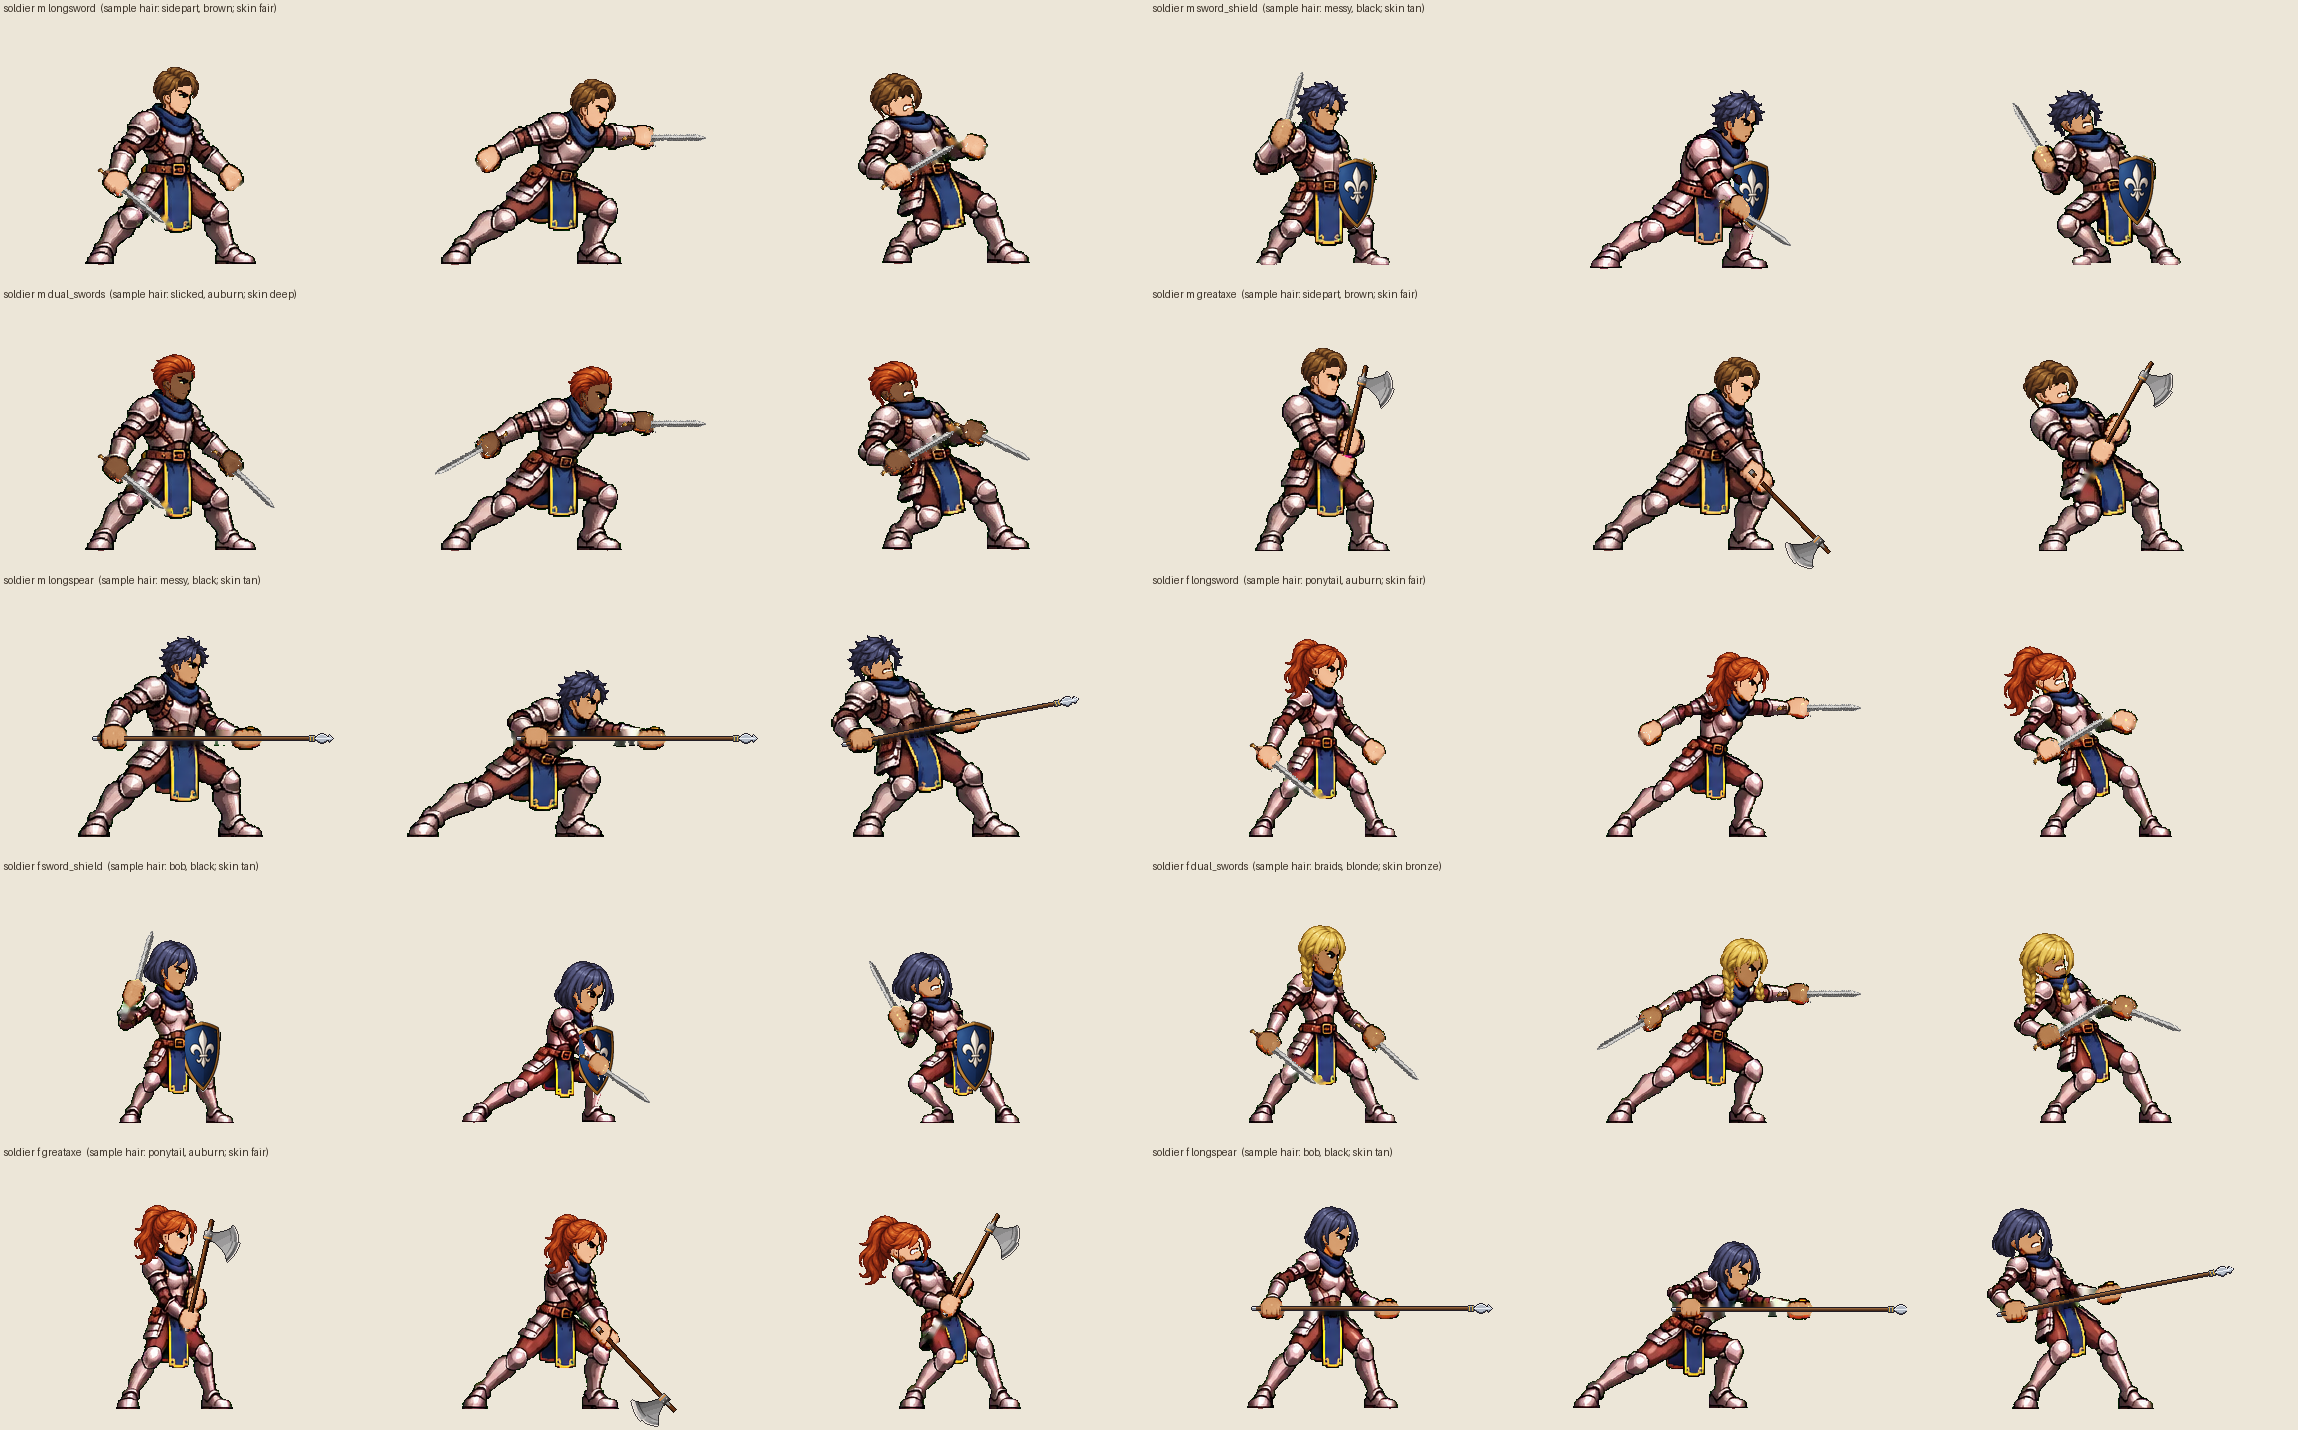
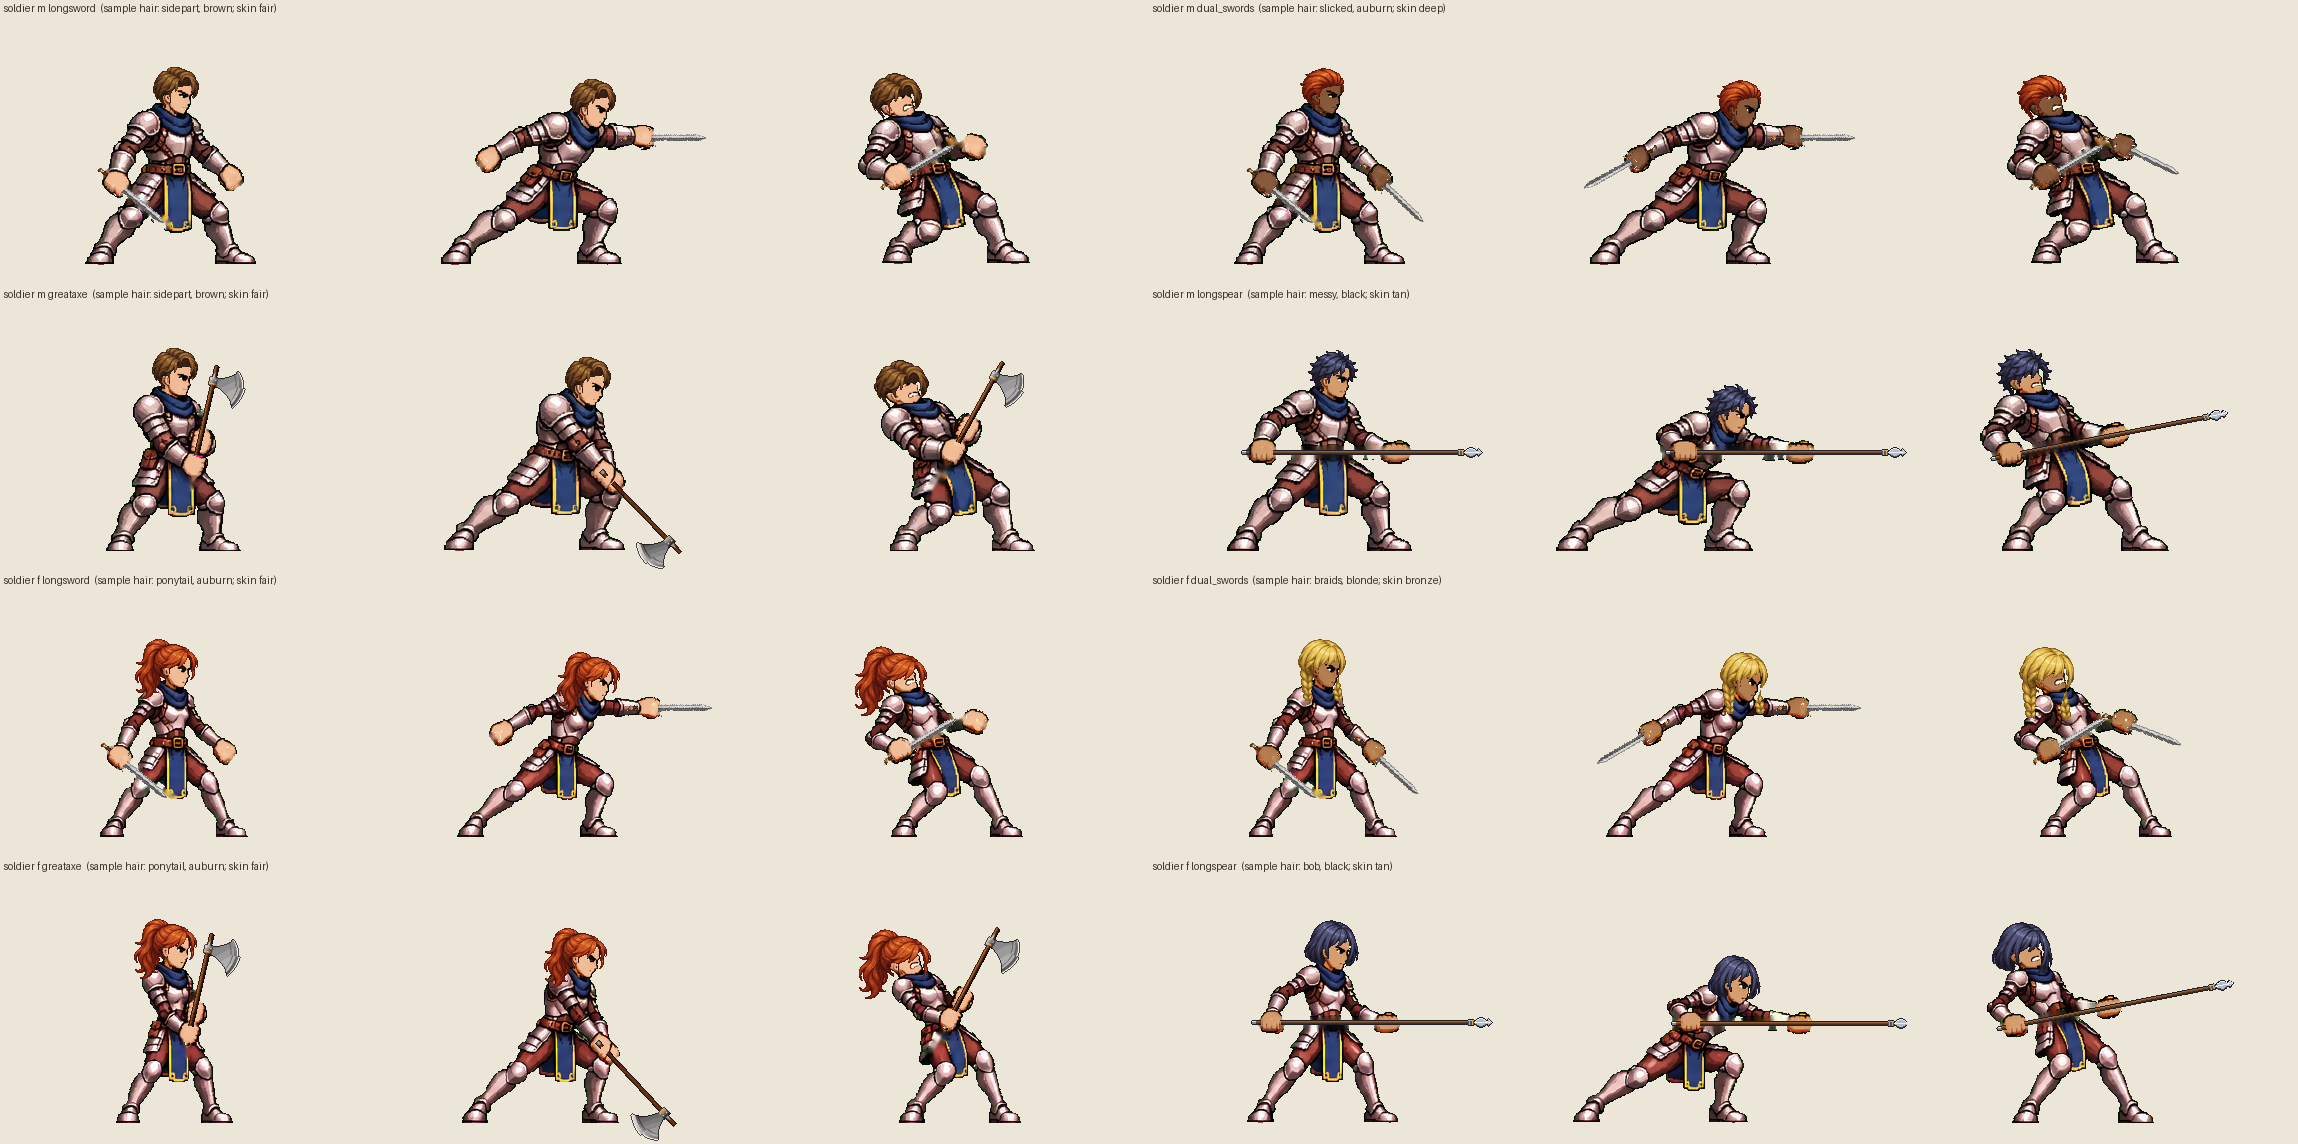
Battle sprites: clean up the old Soldier one-handed (code shield) design
Removed the strike / shield-wall / fix sheets, the 1h layers, grips and sword+shield sprites,
and the code-shield workarounds (strip_drawn_shield, forearm_over, EXTRA cells). The Soldier
shield row is marked PENDING until the drawn-in square shield arrives; the other rows
(longsword in the dual stance, dual swords, great axe, longspear) are rebuilt. Old fix
prompts removed from PROMPTS.md.

Claude-Session: https://claude.ai/code/session_01M8ejkLTav7LEMdtajuWjkN

diff --git a/art_source/new_art/battle/process_battle.py b/art_source/new_art/battle/process_battle.py
@@ -242,8 +242,6 @@ def one_cell(cls, sex, stance, state, c, fg, s):
         g = PP.orient(PP.grips_for(m, stance, body), o); rods = m
     clean, on = clean_rods(body, rods, on)
     pts = [v['point'] for v in g.values() if isinstance(v, dict) and 'point' in v]
-    if state.endswith('_shield') and 'front' in g:
-        on = strip_drawn_shield(clean, on, g['front']['point'])
     fixed, skin, head, shield = skin_split(clean, on, pts)
     n = f'{cls}_{sex}_{stance}_{state}'
     Image.fromarray(fixed).save(os.path.join(HERE, 'layers', f'{n}_fixed.png'))
@@ -254,38 +252,12 @@ def one_cell(cls, sex, stance, state, c, fg, s):
     return fixed, skin, g, head, shield
 
 
-def strip_drawn_shield(a, on, p):
-    """ChatGPT sometimes draws a shield on the braced arm. The code shield (anim.SHIELD at the left fist) covers most
-    of it; the rim that sticks out past the code shield on the far side (dark or orange pixels right of the shield's
-    centre, within 10 px) is cleared."""
-    H, W = on.shape; S = np.zeros((H + 400, W + 400), bool)
-    x0 = int(round(p[0] - A.SHIELD_FIST[0])) + 200; y0 = int(round(p[1] - A.SHIELD_FIST[1])) + 200
-    sa = A.SHIELD[..., 3] > 0; S[y0:y0 + sa.shape[0], x0:x0 + sa.shape[1]] = sa; S = S[200:200 + H, 200:200 + W]
-    ys, xs = np.where(S)
-    if not len(xs): return on
-    r, g, b = a[..., 0].astype(int), a[..., 1].astype(int), a[..., 2].astype(int)
-    lum = 0.3 * r + 0.59 * g + 0.11 * b
-    rim = (lum < 90) | ((r > 140) & (b < 0.6 * r))            # dark body of the drawn shield, orange/gold rim
-    xx = np.arange(W)[None, :]
-    zone = ndi.binary_dilation(S, iterations=12) & ~S & (xx > xs.min() + 0.4 * (xs.max() - xs.min()))
-    on = on & ~(zone & rim & on)
-    # leftover rim crumbs: small pieces outside the code shield, on its far side
-    far = ndi.binary_dilation(S, iterations=20) & ~S & (xx > xs.min() + 0.4 * (xs.max() - xs.min()))
-    lab, n = ndi.label(on & ~S, np.ones((3, 3)))
-    for i in range(1, n + 1):
-        m = lab == i
-        if m.sum() < 80 and (m & far).sum() > 0.6 * m.sum(): on &= ~m
-    # nothing of the body reaches past the shield's far edge at chest height: what is there is the drawn rim
-    yy = np.arange(H)[:, None]
-    past = (xx >= xs.max() - 1) & (xx < xs.max() + 16) & (yy > ys.min() - 16) & (yy < ys.max() + 8)
-    past |= (xx > (xs.min() + xs.max()) / 2 + 2) & (xx < xs.max() + 16) & (yy < ys.min()) & (yy > ys.min() - 14)
-    return on & ~(past & ~S)
-
-
 # fix sheets: (sex, stance, state, tag, file) -> extra state '<state>_<tag>'. 'shield' = the 1h attack with the shield
 # arm braced at the chest; loadouts with a shield use it, the others keep the plain attack.
-EXTRA = {'soldier': [('m', '1h', 'attack', 'shield', 'soldier_m_sheet_strike.png'),
-                      ('f', '1h', 'attack', 'shield', 'soldier_f_sheet_strike.png')]}   # shield strike, user reference 2026-11-20
+EXTRA = {}
+# rows waiting for a new ChatGPT drawing: not cut, and their loadouts are not built (Soldier shield row: old code-shield
+# poses removed 2026-11-20, waiting for the drawn-in square shield)
+PENDING = {'soldier': {'1h'}}
 
 
 def process(cls):
@@ -301,6 +273,7 @@ def process(cls):
         hs = [figure_height(*cut[k])[0] for k in cut if k[1] == 'stand']
         s = FIG_H / float(np.median(hs))
         for (stance, state), (c, fg) in cut.items():
+            if stance in PENDING.get(cls, ()): continue
             data[(sex, stance, state)] = one_cell(cls, sex, stance, state, c, fg, s)
         # extra cells from fix sheets (same grid): e.g. the shield-braced 1h attack, used only with a shield
         for (xs, stance, state, tag, fname) in EXTRA.get(cls, []):
@@ -329,27 +302,11 @@ def feet(b):
     return float(xs[low].mean()), float(bot)
 
 
-def forearm_over(im, b, fist, head, ox, oy, avoid=None, length=30, half_w=6):
-    """Redraw the body's pixels in a band from the right fist toward the shoulder on top of the frame."""
-    sh = np.array([head['left'] + 0.35 * (head['right'] - head['left']), head['bottom'] + 12.0])
-    f = np.array(fist, float); d = sh - f; L = np.linalg.norm(d)
-    if L < 1: return im
-    d /= L; e = f + d * min(length, L)
-    yy, xx = np.mgrid[:b.shape[0], :b.shape[1]]
-    t = np.clip(((xx - f[0]) * d[0] + (yy - f[1]) * d[1]), 0, min(length, L))
-    dist = np.hypot(xx - (f[0] + d[0] * t), yy - (f[1] + d[1] * t))
-    m = (dist <= half_w) & (b[..., 3] > 0)
-    if avoid is not None:                                   # never the shield hand behind the shield
-        m &= np.hypot(xx - avoid[0], yy - avoid[1]) > 10
-    layer = np.zeros_like(b); layer[m] = b[m]
-    im = im.copy(); A.paste(im, layer, ox, oy)
-    return im
-
-
 def render(cls, data):
     rows = []
     for sex in 'mf':
         for li, (load, stance, items) in enumerate(LOADOUTS[cls]):
+            if stance in PENDING.get(cls, ()): continue
             hair, hramp, sramp = SAMPLE_HAIR[sex][li % len(SAMPLE_HAIR[sex])]
             frames = {}
             ref = None
@@ -371,10 +328,6 @@ def render(cls, data):
                 if head and hair:
                     hl, hx, hy = hair_layer(sex, hair, hramp, head)
                     A.paste(im := im.copy(), hl, A.CELL + dx + hx, A.TOP + dy + hy)
-                if state == 'attack' and shielded and head:
-                    # shield strike: the sword arm swings across IN FRONT of the shield, so the right forearm (fist ->
-                    # elbow, toward the shoulder) is redrawn over it; the sword and fist are already on top
-                    im = forearm_over(im, b, g2['back']['point'], head, A.CELL + dx, A.TOP + dy, avoid=g2['front']['point'])
                 frames[state] = im
                 Image.fromarray(im).save(os.path.join(HERE, 'sprites', f'{cls}_{sex}_{load}_{state}.png'))
             rows.append((f'{cls} {sex} {load}  (sample hair: {hair}, {hramp}; skin {sramp})', frames))

diff --git a/art_source/new_art/battle/PROMPTS.md b/art_source/new_art/battle/PROMPTS.md
@@ -163,22 +163,6 @@ Attach `templates/archer_ammo_template.png` (and `refs/archer_m_ref.png` for the
   so the common prompt now asks for silver / dark bronze trims.
 - The 1h attack's left (shield) fist ended low at the belt instead of braced in front of the chest.
 
-## Fix: shield arm in the one-handed attack (Soldier, Acolyte)
-Only the classes that can use a shield need this (Soldier, Acolyte; Warrior, Archer, Mage and Rogue have no shield).
-Attach the sheet ChatGPT made and send:
-> Edit the attached sheet. Change ONLY the top-middle cell (one-handed attack); every other cell, the canvas, the
-> grid and the green must stay pixel-identical. In that cell keep the same character, outfit, deep lunge and legs, and
-> change the arms: the LEFT forearm is raised and braced across the front of the chest, left fist at chest height in
-> front of the body, holding the cyan rod upright (as if holding a shield up in front of the chest). The RIGHT arm stays
-> fully extended forward at shoulder height, the magenta rod level and pointing straight forward, not downward. Rods stay
-> flat pure #FF00FF (right) and #00FFFF (left), sticking out of both sides of the fists. Bare skin stays yellow.
-
-## Shield strike (Soldier 1h attack, user reference 2026-11-20)
-Reference: `source/concepts/shield_strike_ref.png` (pose only). Attach the Soldier sheet + that reference, then:
-```
-Edit the first attached sheet. Change ONLY the top-middle cell (one-handed attack); every other cell, the canvas, the grid and the green must stay pixel-identical. Copy the striking pose of the second image (pose only - ignore its outfit, hair, shield, sword, slash effect, sparks, dummy and background): deep forward lunge, upper body hunched forward, head ducked down behind the left fist. The LEFT elbow is bent and the left fist is held close in front of the face/upper chest, the cyan rod upright and leaning a little forward (where the shield is held up in front of the face). The RIGHT arm has just swung a diagonal downward slash: right fist low in front of the hips, just below the left fist, magenta rod pointing forward and down at about 30-40 degrees, as in the reference. Same character, outfit, scale and ground line. Rods stay flat pure #FF00FF (right) and #00FFFF (left), sticking out of both sides of the fists. Bare skin stays yellow. Bald head. No shield, no weapon, no effects.
-```
-
 ## Shield rule (user, 2026-11-20)
 Each class with a shield has its OWN shield shape, drawn by ChatGPT **into the body** (on the left arm) in **shades of
 pure red**, so the overlaps are right; `process_battle.py` cuts the red into a shield layer (value map) that is tinted
@@ -186,7 +170,7 @@ per shield item. Soldier = **square** shield, Acolyte and Warrior = **round** sh
 future Knight class. A one-handed weapon **without** a shield uses the **dual-weapon stance** (left hand empty).
 
 ### Fix: redraw only the Soldier's shield row (keep the other rows)
-Attach the Soldier sheet (the `_strike` one) and the concept sheet, then:
+Attach the current Soldier sheet (`source/soldier_<sex>_sheet.png`) and the concept sheet; `source/concepts/shield_strike_ref.png` can go along as a third image for the strike pose. Then:
 ```
 Edit the first attached sheet. Redraw ONLY the top row (3 cells); rows 2-4, the canvas, the grid and the green must stay pixel-identical. Same character, outfit, scale and ground lines. In all three top-row cells the LEFT arm now carries a large SQUARE shield: a slightly curved rectangle with rounded corners, from the shoulder to mid-thigh, as wide as the torso, with a raised round boss in the middle and a thick rim. Paint the WHOLE shield in shades of pure red (#FF0000 family: very dark red for the rim edge and shadows, mid red for the face, bright red for highlights on the boss and rim) - no other colour on the shield, no emblem. The left fist is hidden behind the shield; remove the cyan rod. Poses: STAND = low guard, shield in front of the body, right fist raised by the shoulder with the magenta rod pointing up. ATTACK = shield strike: deep lunge, upper body hunched behind the raised shield, the right arm swinging a diagonal downward slash ACROSS IN FRONT of the shield, right fist low in front of the hips, magenta rod pointing forward and down. GET HIT = pushed back behind the shield, knees bent, wincing, magenta rod still held. Rods stay flat pure #FF00FF. Bare skin stays yellow. Bald head. No other red anywhere, no sword, no effects.
 ```
